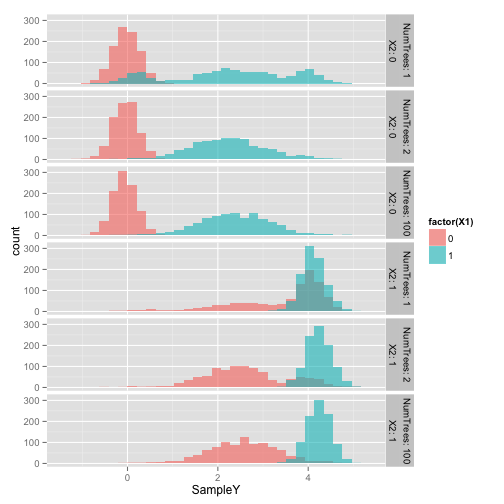
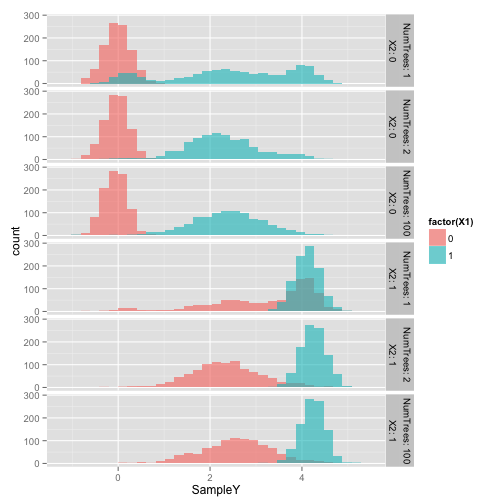
minor

diff --git a/_posts/2014-07-06-bart-machine-simple-examples-discrete.md b/_posts/2014-07-06-bart-machine-simple-examples-discrete.md
@@ -20,54 +20,16 @@ In this example, $X_1$ (which is $0$ for 10 observations and $1$ for 100) is the
 
 The model assumes that the noise is independent of everything, which is consistent with the example. You can see that the mean of $y$ depends on $X_1$ and that we have much more data with `$X_1=1$` than `$X_1=0$`. 
 
+First I'll generate and display the simulated training data:
+
 ![plot of chunk unnamed-chunk-2](/images/posts/bart-machine-simple-examples-discrete/unnamed-chunk-2.png) 
 
 
-# Default bartMachine (behavior would be the same with only one tree)
-
-```r
-bartFit <- bartMachine(X = train, y = y)
-```
-
-```
-## bartMachine initializing with 50 trees...
-## Java initialized with 1.14GB maximum memory (the default).
-## Now building bartMachine for regression ...
-## evaluating in sample data...done
-```
-
-```r
-sigmaPosterior <- get_sigsqs(bartFit)
-qplot(sigmaPosterior)
-```
-
-```
-## stat_bin: binwidth defaulted to range/30. Use 'binwidth = x' to adjust this.
-```
-
-![plot of chunk unnamed-chunk-3](/images/posts/bart-machine-simple-examples-discrete/unnamed-chunk-3.png) 
-
-```r
-mean(sigmaPosterior)
-```
-
-```
-## [1] 0.8655
-```
-
-```r
-posteriorSamples <- bart_machine_get_posterior(bartFit, test)$y_hat_posterior_samples
-
-sampleDF <- ldply(1:ncol(posteriorSamples), function(ixSample) {
-    testOneSample <- test
-    testOneSample$SampleY <- posteriorSamples[, ixSample]
-    return(testOneSample)
-})
-```
+We fit the BART model and plot `$\mathcal{E}(y|X)$   and see that as we'd expect uncertainty is higher for the 0's (where we have fewer observations)
 
 
 
-# As you'd expect, uncertainty is higher for the 0's (where we have fewer observations)
+
 
 ```r
 ggplot(sampleDF) + geom_point(aes(x = factor(X1), y = SampleY), alpha = 0.5)
@@ -201,9 +163,9 @@ bartMachine:::get_tree_depths(bartFitByNumTrees[["100"]])[1, ]
 ```
 
 ```
-##   [1] 2 1 1 1 1 1 1 1 1 1 1 1 1 1 1 2 1 1 2 2 1 1 1 2 1 1 2 1 1 1 1 1 1 1 1
-##  [36] 1 1 1 1 2 0 0 1 2 2 2 2 2 2 1 2 2 1 1 1 2 2 2 1 2 2 2 2 1 1 2 1 1 1 2
-##  [71] 2 1 1 1 1 1 1 2 1 2 2 1 2 1 1 2 1 1 2 1 2 1 2 1 2 2 2 1 1 1
+##   [1] 1 2 2 1 2 2 2 1 2 1 2 1 2 2 1 1 2 1 2 1 1 2 1 2 2 2 2 1 1 2 1 1 2 1 2
+##  [36] 1 1 2 2 1 1 1 2 1 2 1 1 1 2 2 1 1 1 1 1 2 1 1 1 1 1 1 1 2 1 2 1 1 2 2
+##  [71] 2 2 1 1 2 2 1 1 2 1 1 2 1 2 2 2 2 2 2 1 2 1 1 1 0 1 2 1 2 2
 ```
 
 
